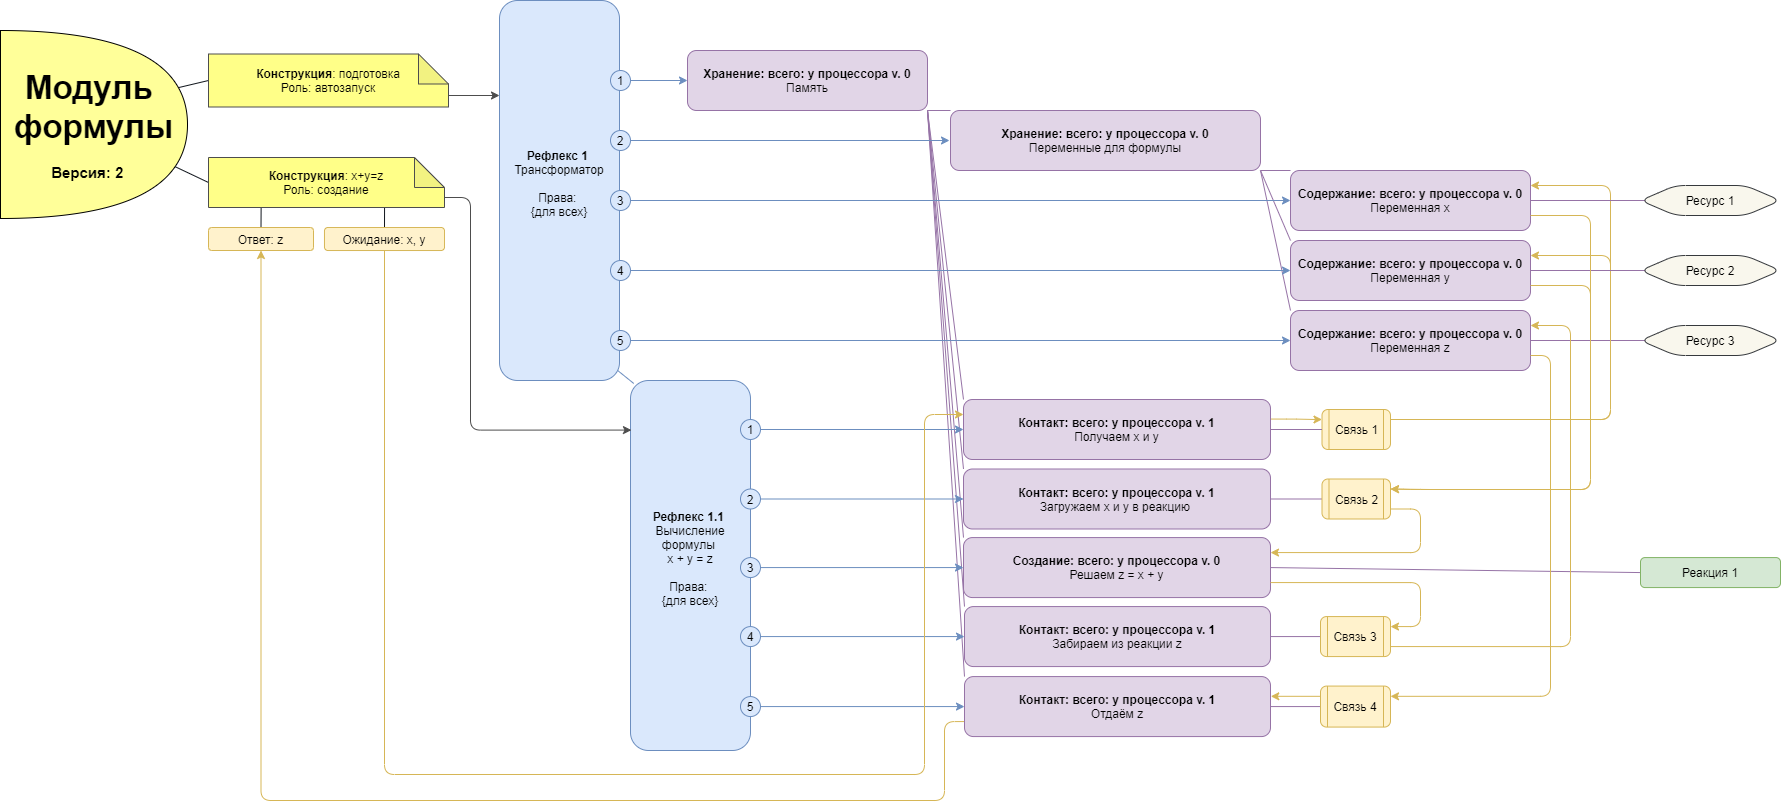
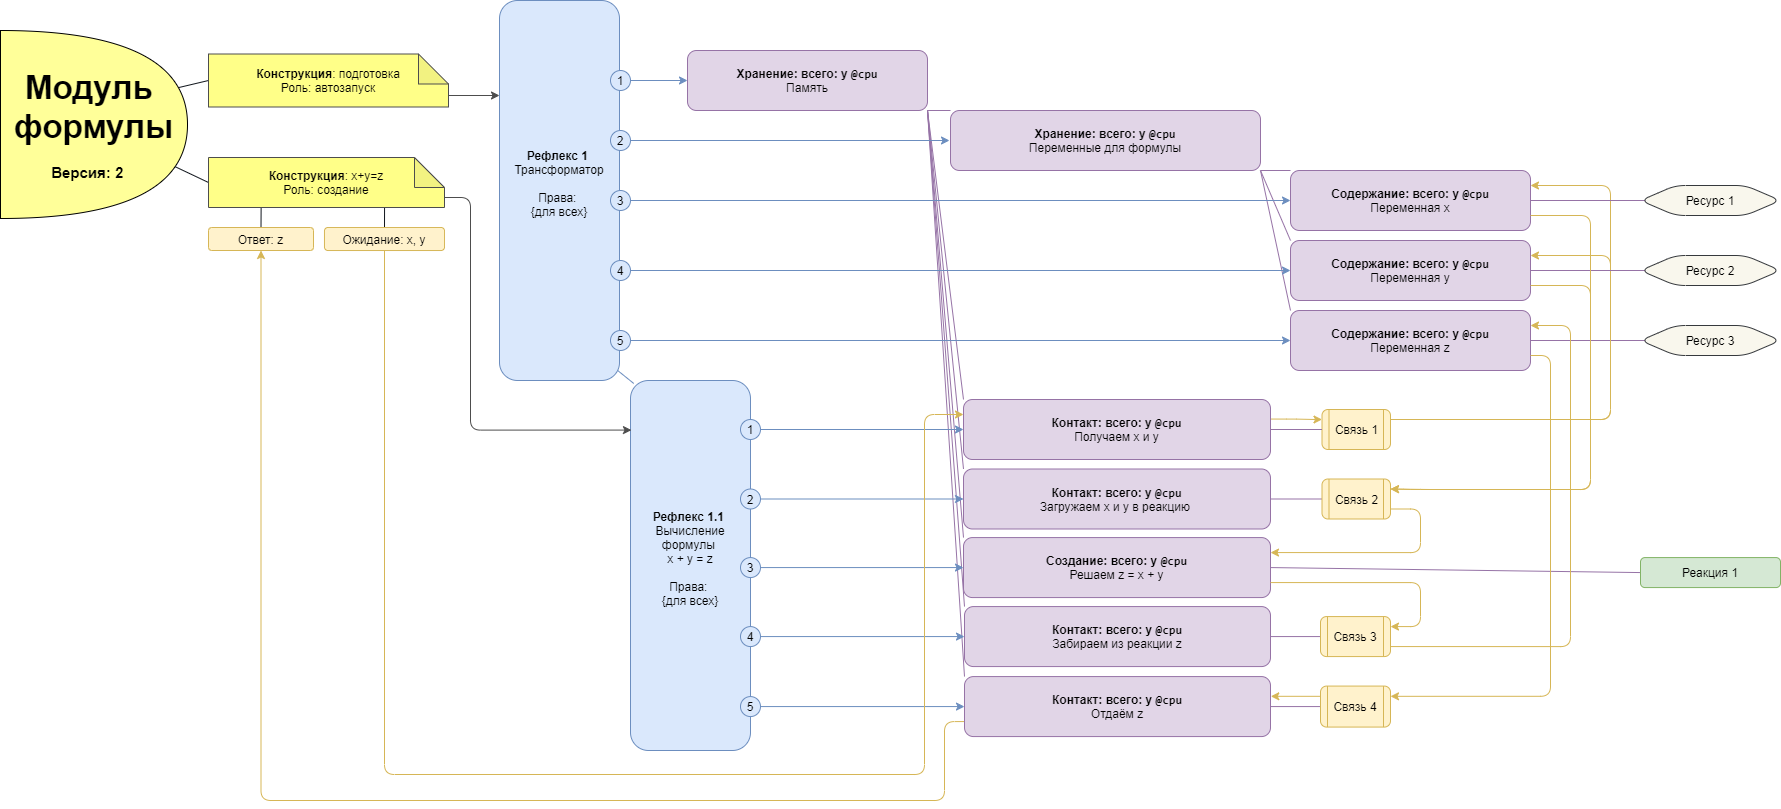
Cpu

diff --git a/README.md b/README.md
@@ -293,7 +293,7 @@
 
 <h3>Создание</h3>
 
-Для первоначального создания модулей введём модуль **процессор** с такими конструкциями:
+Для первоначального создания модулей введём модуль **@cpu** с такими конструкциями:
 
 1. Хранение: всего
 > благодаря которой процессор сможет капсулировать
